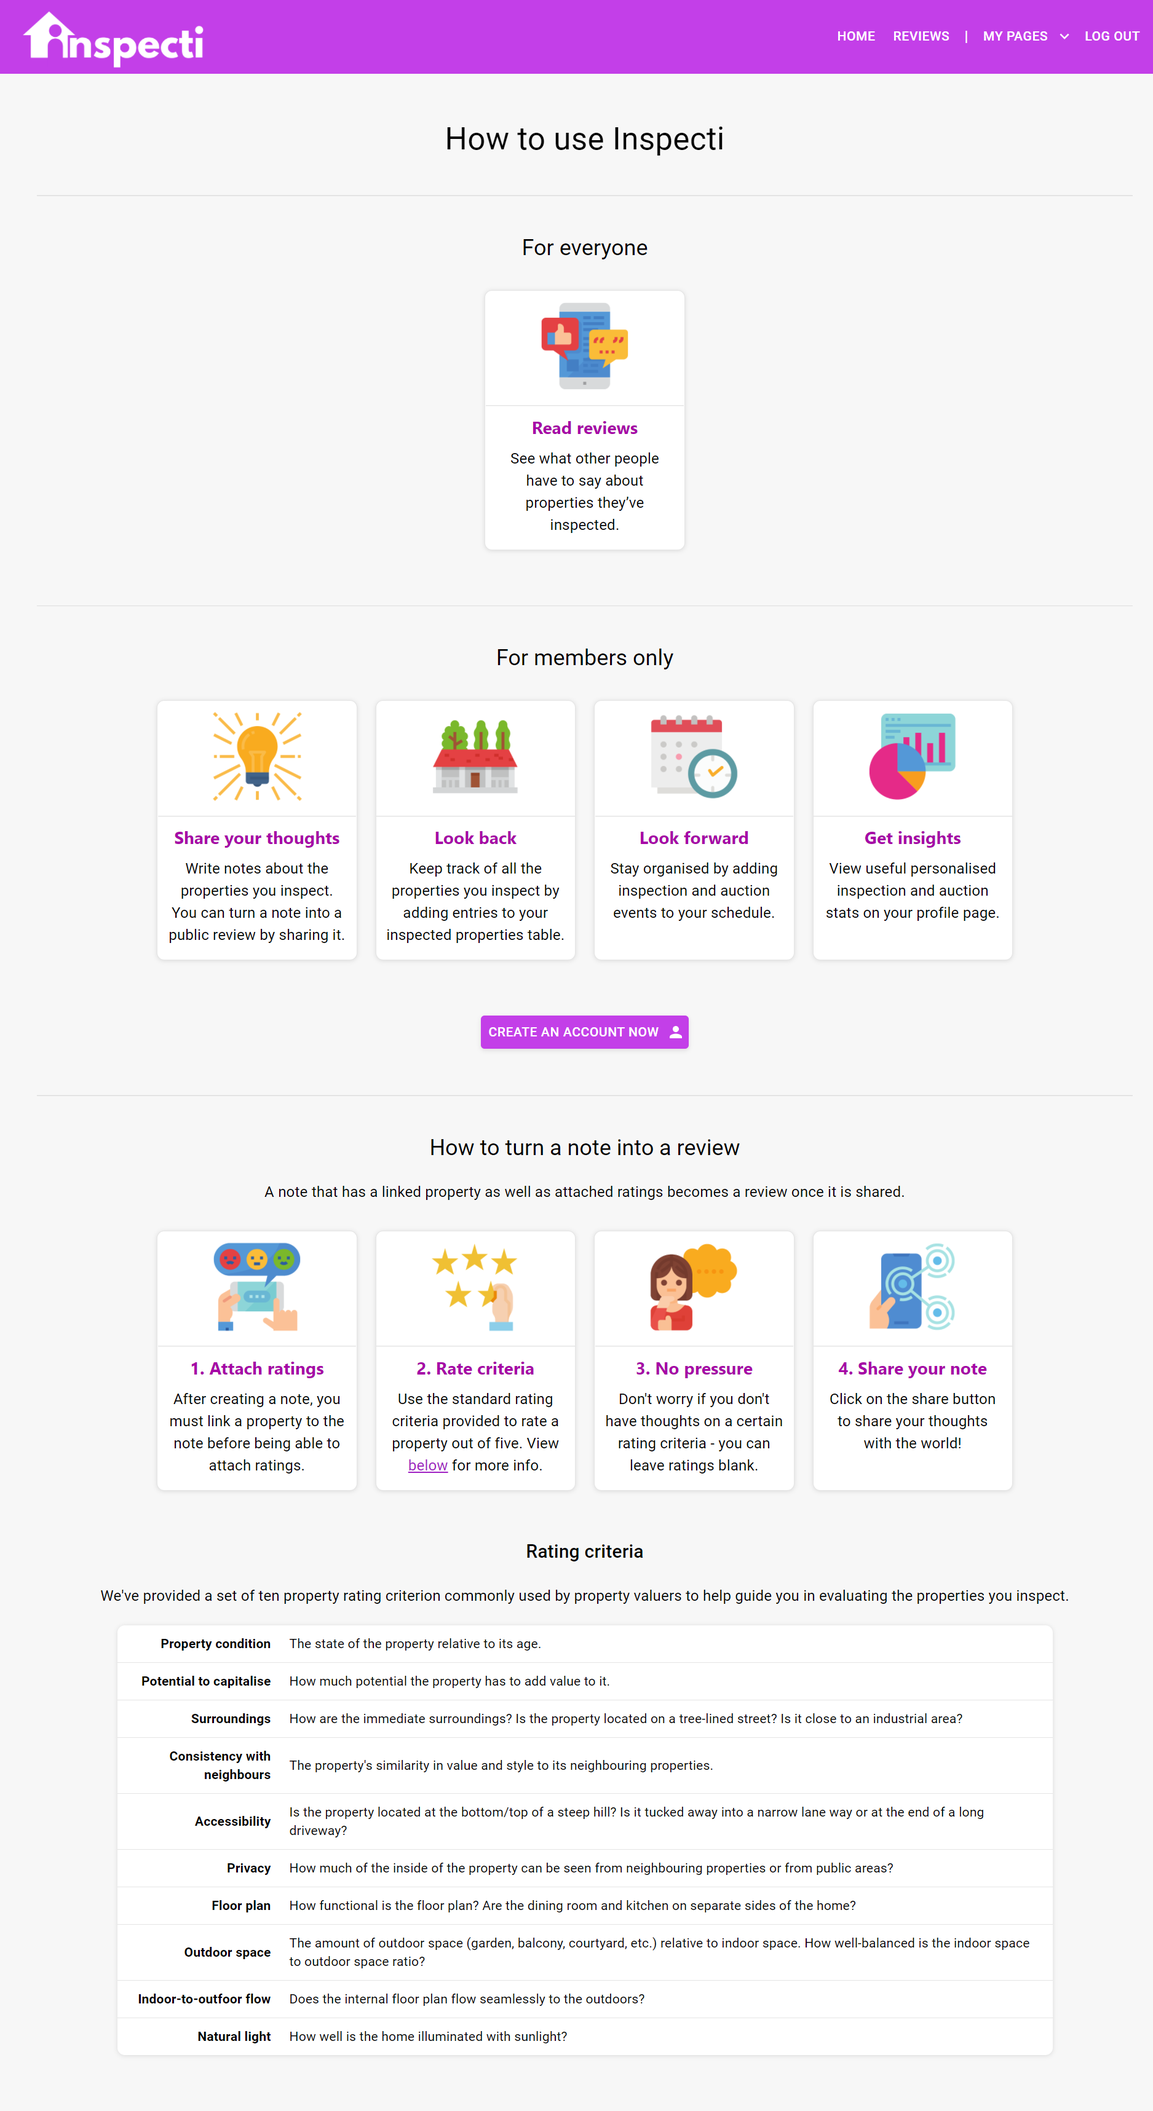
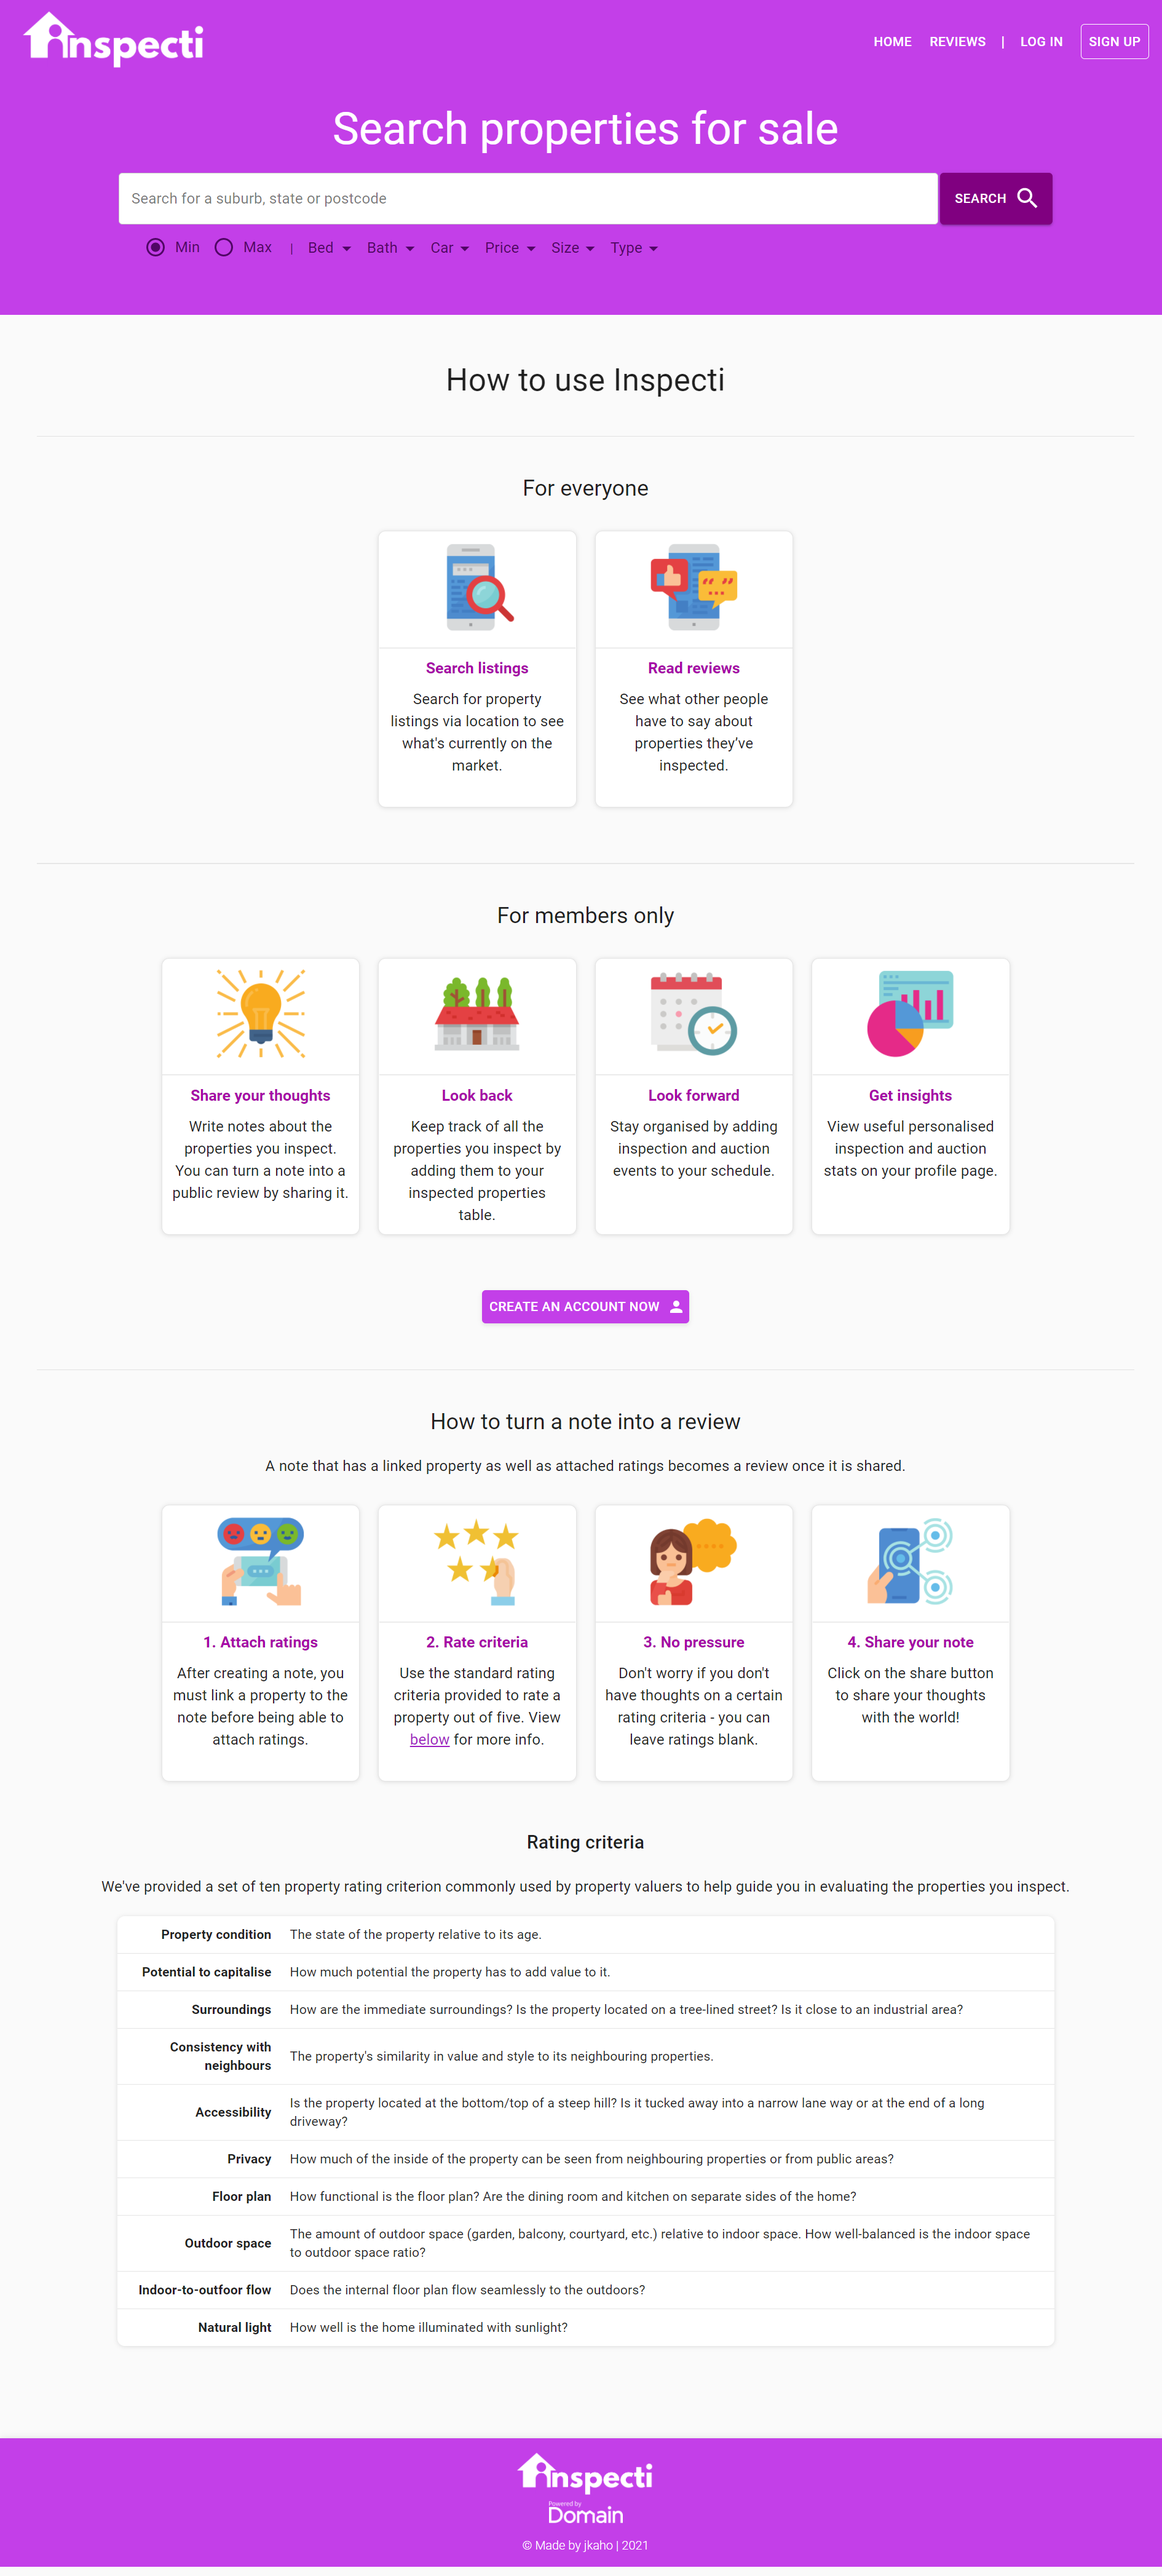
Update README.md - modify description, replace homepage screenshot

diff --git a/README.md b/README.md
@@ -4,7 +4,7 @@
 
 ## Description
 
-*Inspecti* is an Australian residential real estate application to help users keep up with the property market. Users can take notes on properties, rate properties and share reviews, as well as keep track of past and future property inspections. 
+*Inspecti* is an Australian residential real estate application to help users keep up with the property market. Users can search for property listings, take notes on properties, rate properties and share reviews, as well as keep track of past and future property inspections. 
 
 ## Table of Contents
 
@@ -23,6 +23,7 @@ This project was made for real estate enthusiasts and anyone else involved in th
 ## What you can do with Inspecti
 
 **Everyone can:** 
+- Search for property listings
 - View property reviews
 
 **Only members can:** 
